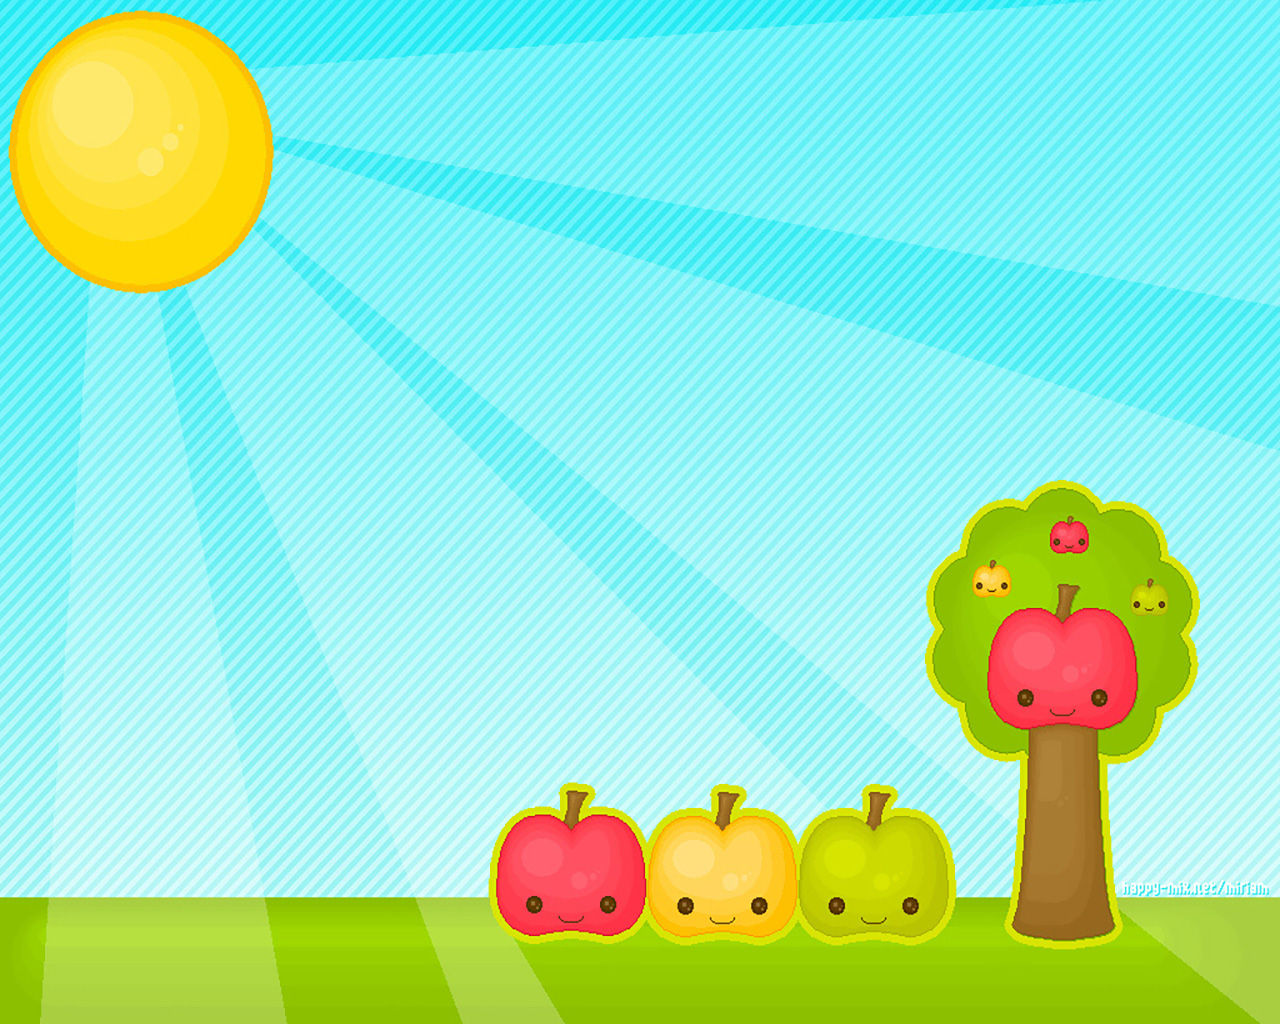
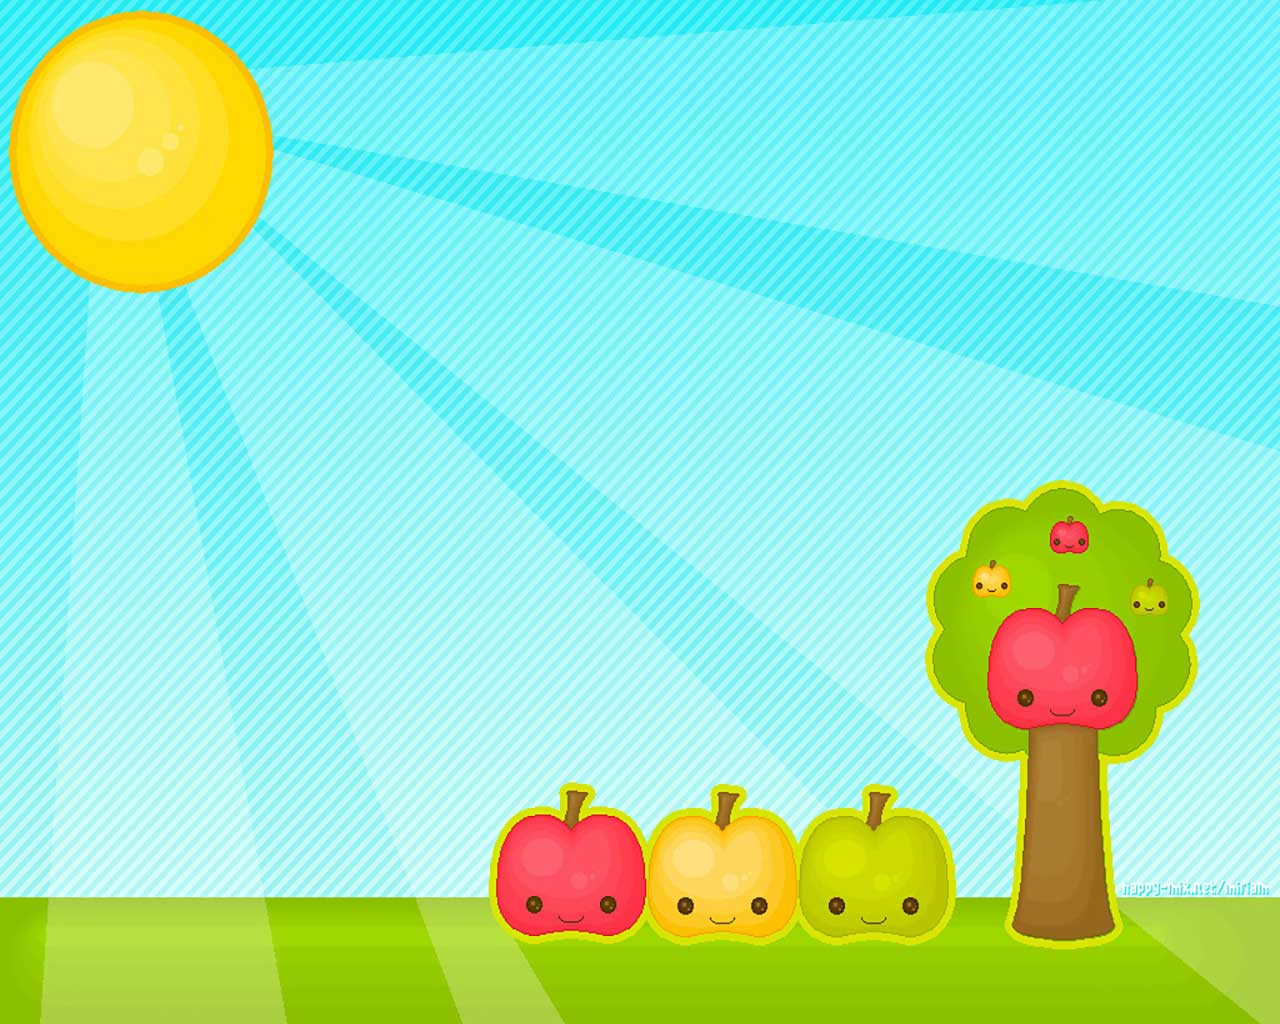
change image size, update server to correctly detect whose projects belong to

diff --git a/backend/server/userbase.js b/backend/server/userbase.js
@@ -19,8 +19,8 @@ userbasequery.init = function(req,res,next){
 };
 
 userbasequery.getUserData = function(req, res, next) {
-	console.log(JSON.stringify(req.body));
-	req.db.userbase.find({"id":req.body[0]}).toArray(function(error,data){
+	console.log(JSON.stringify(req));
+	req.db.userbase.find({"userId":req.query.userId}).toArray(function(error,data){
 		res.send(data);
 	});
 }

diff --git a/frontend/app/scripts/controllers/header.js b/frontend/app/scripts/controllers/header.js
@@ -51,7 +51,7 @@ angular.module('frontendApp')
 		});
 	};
 	$scope.load = function () {
-		$http.get($scope.serverURL+"/users/").
+		$http.get($scope.serverURL+"/users/", {params: { userId: $scope.userId }}).
 		success(function (res) {
 			console.log("SUCCESS POST");
 			$scope.loadedData = res;
